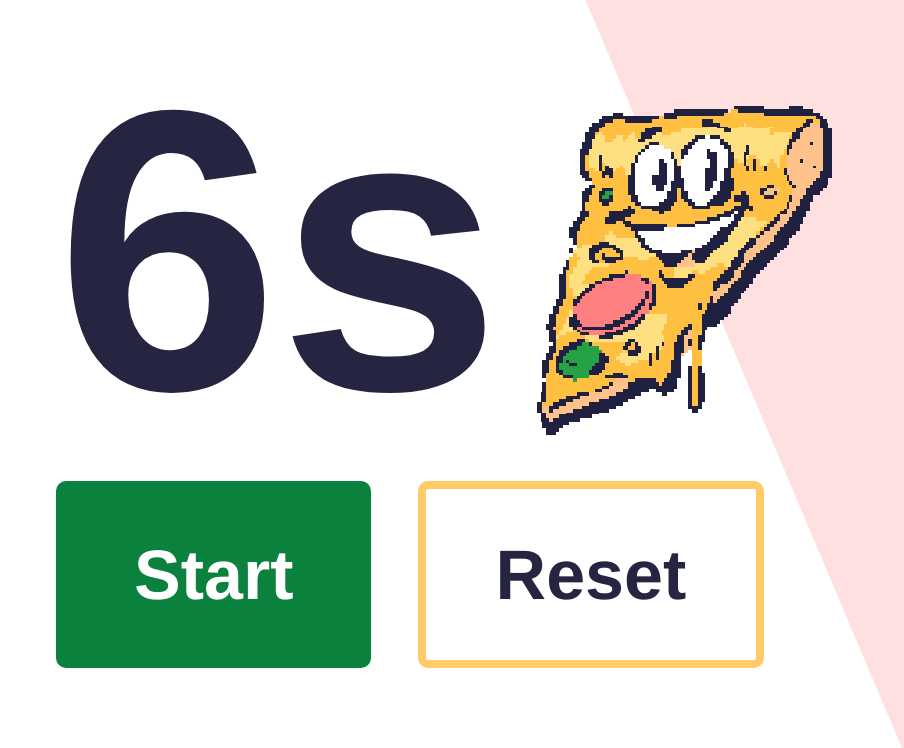
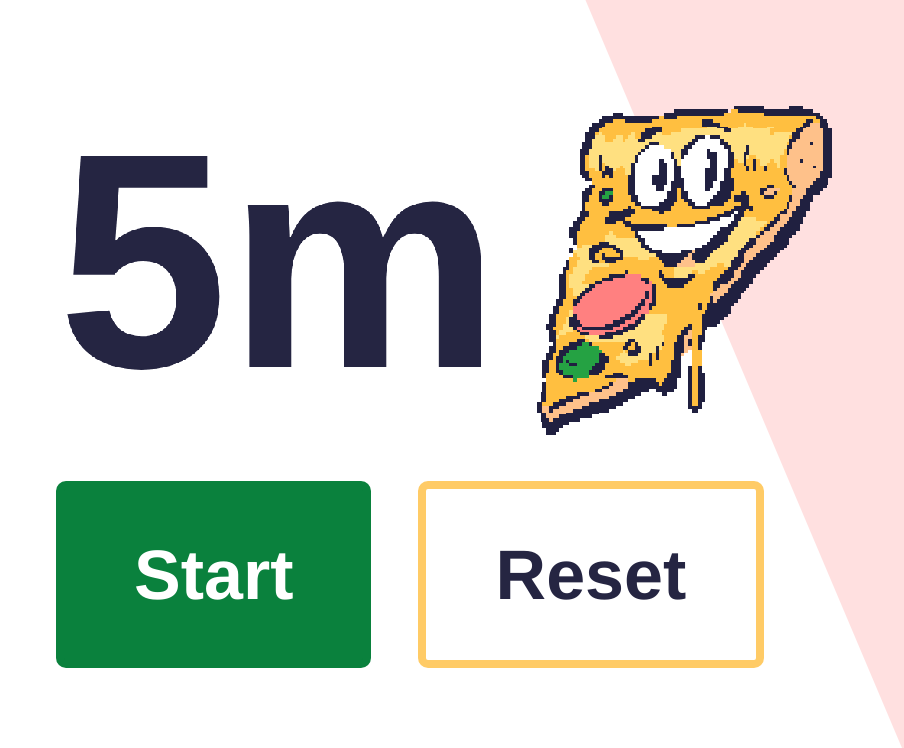
Use a 5m in share image

diff --git a/service-worker.js b/service-worker.js
@@ -1,4 +1,4 @@
-const version = "1.8.5";
+const version = "1.8.7";
 
 self.addEventListener("install", event => {
   event.waitUntil(
